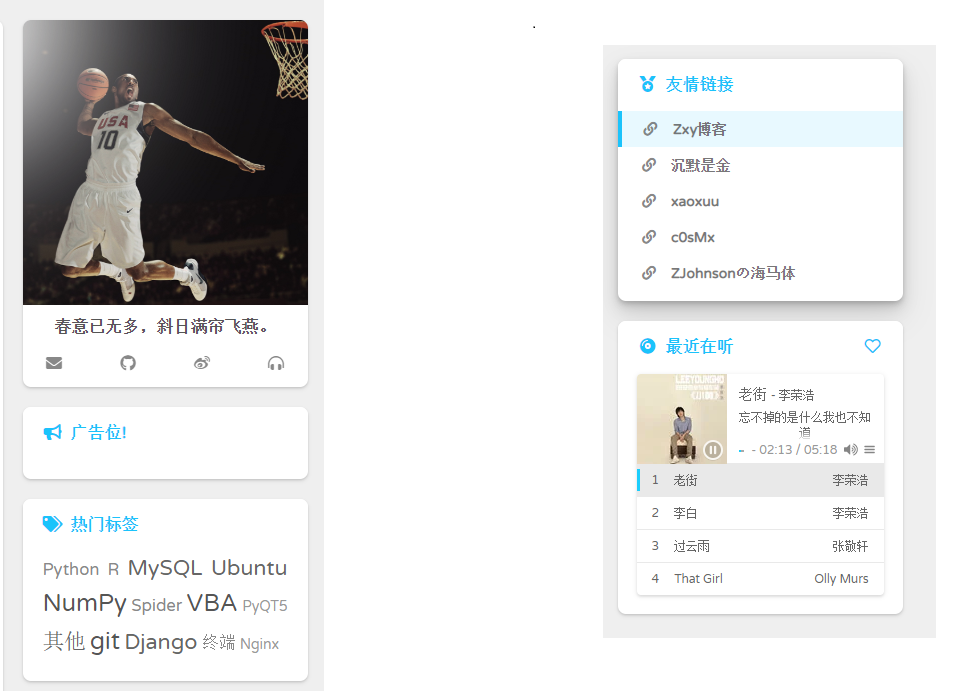
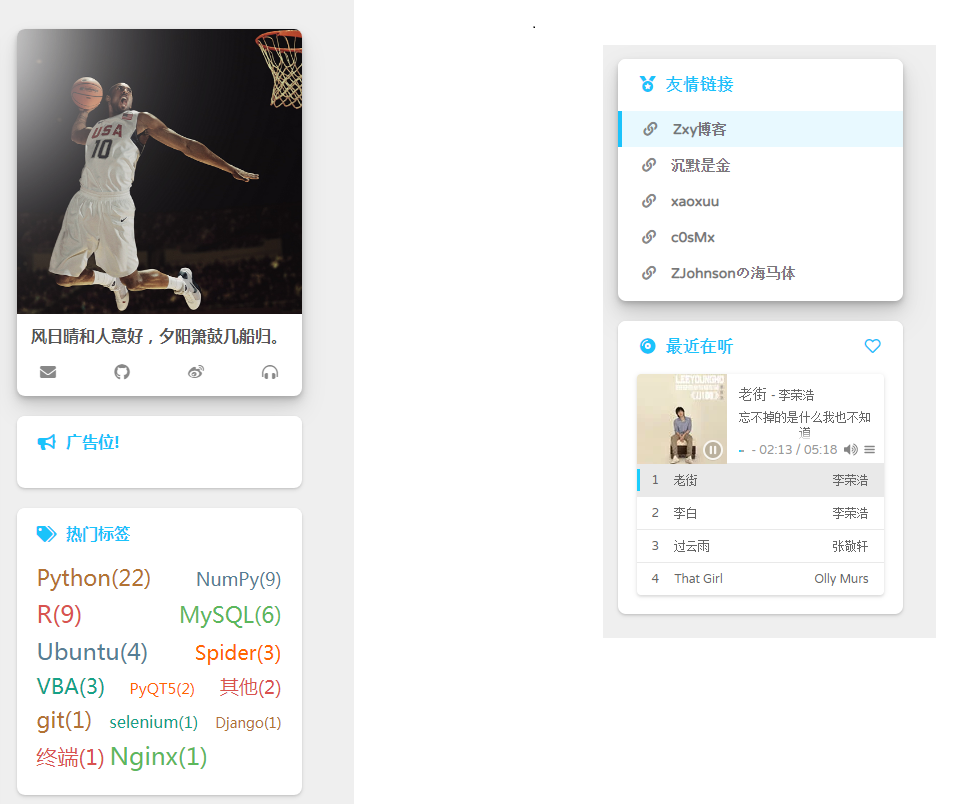
UPDATE

diff --git a/www/common_static/js/search.js b/www/common_static/js/search.js
@@ -1,1 +1,236 @@
-var AlgoliaSearch,AzureSearch,BaiduSearch,SearchService="";!function(e){SearchService=function(t){var o=this;o.config=e.extend({per_page:10,selectors:{body:"body",form:".u-search-form",input:".u-search-input",container:"#u-search",modal:"#u-search .modal",modal_body:"#u-search .modal-body",modal_footer:"#u-search .modal-footer",modal_overlay:"#u-search .modal-overlay",modal_results:"#u-search .modal-results",modal_metadata:"#u-search .modal-metadata",modal_error:"#u-search .modal-error",modal_loading_bar:"#u-search .modal-loading-bar",modal_ajax_content:"#u-search .modal-ajax-content",modal_logo:"#u-search .modal-footer .logo",btn_close:"#u-search .btn-close",btn_next:"#u-search .btn-next",btn_prev:"#u-search .btn-prev"},brands:{google:{logo:"google.svg",url:"https://cse.google.com"},algolia:{logo:"algolia.svg",url:"https://www.algolia.com"},hexo:{logo:"",url:""},azure:{logo:"azure.svg",url:"https://azure.microsoft.com/en-us/services/search/"},baidu:{logo:"baidu.svg",url:"http://zn.baidu.com/cse/home/index"}},imagePath:ROOT+"img/"},t),o.dom={},o.percentLoaded=0,o.open=!1,o.queryText="",o.nav={next:-1,prev:-1,total:0,current:1},o.parseSelectors=function(){for(var a in o.config.selectors)o.dom[a]=e(o.config.selectors[a])},o.beforeQuery=function(){o.open||(o.dom.container.fadeIn(),o.dom.body.addClass("modal-active")),o.dom.input.each(function(a,t){e(t).val(o.queryText)}),document.activeElement.blur(),o.dom.modal_error.hide(),o.dom.modal_ajax_content.removeClass("loaded"),o.startLoading()},o.afterQuery=function(){o.dom.modal_body.scrollTop(0),o.dom.modal_ajax_content.addClass("loaded"),o.stopLoading()},o.search=function(e,a){o.beforeQuery(),o.search instanceof Function?o.query(o.queryText,e,function(){o.afterQuery()}):(console.log("query() does not exist."),o.onQueryError(o.queryText,""),o.afterQuery())},o.onQueryError=function(e,a){var t="";t="success"===a?'No result found for "'+e+'".':"timeout"===a?"Unfortunate timeout.":"Mysterious failure.",o.dom.modal_results.html(""),o.dom.modal_error.html(t),o.dom.modal_error.show()},o.nextPage=function(){-1!==o.nav.next&&o.search(o.nav.next)},o.prevPage=function(){-1!==o.nav.prev&&o.search(o.nav.prev)},o.buildResult=function(e,a,t){var o="";return o="<li>",o+="<a class='result' href='"+e+"'>",o+="<span class='title'>"+a+"</span>",o+="<span class='digest'>"+t+"</span>",o+="<span class='fas fa-chevron-thin-right'></span>",o+="</a>",o+="</li>"},o.close=function(){o.open=!1,o.dom.container.fadeOut(),o.dom.body.removeClass("modal-active")},o.onSubmit=function(a){a.preventDefault(),o.queryText=e(this).find(".u-search-input").val(),o.queryText&&o.search(1)},o.startLoading=function(){o.dom.modal_loading_bar.show(),o.loadingTimer=setInterval(function(){o.percentLoaded=Math.min(o.percentLoaded+5,95),o.dom.modal_loading_bar.css("width",o.percentLoaded+"%")},100)},o.stopLoading=function(){clearInterval(o.loadingTimer),o.dom.modal_loading_bar.css("width","100%"),o.dom.modal_loading_bar.fadeOut(),setTimeout(function(){o.percentLoaded=0,o.dom.modal_loading_bar.css("width","0%")},300)},o.addLogo=function(e){var a="";o.config.brands[e]&&o.config.brands[e].logo&&(a+="<a href='"+o.config.brands[e].url+"' class='"+e+"'>",a+='<img src="'+o.config.imagePath+o.config.brands[e].logo+'" />',a+="</a>",o.dom.modal_logo.html(a))},o.destroy=function(){o.dom.form.each(function(a,t){e(t).off("submit")}),o.dom.modal_overlay.off("click"),o.dom.btn_close.off("click"),o.dom.btn_next.off("click"),o.dom.btn_prev.off("click"),o.dom.container.remove()},o.init=function(){e("body").append(a),o.parseSelectors(),o.dom.modal_footer.show(),o.dom.form.each(function(a,t){e(t).on("submit",o.onSubmit)}),o.dom.modal_overlay.on("click",o.close),o.dom.btn_close.on("click",o.close),o.dom.btn_next.on("click",o.nextPage),o.dom.btn_prev.on("click",o.prevPage)},o.init()};var a='<div id="u-search"><div class="modal"> <header class="modal-header" class="clearfix"><form id="u-search-modal-form" class="u-search-form" name="uSearchModalForm"> <input type="text" id="u-search-modal-input" class="u-search-input" /> <button type="submit" id="u-search-modal-btn-submit" class="u-search-btn-submit"> <span class="fas fa-search"></span> </button></form> <a class="btn-close"> <span class="fas fa-times"></span> </a><div class="modal-loading"><div class="modal-loading-bar"></div></div> </header> <main class="modal-body"><ul class="modal-results modal-ajax-content"></ul> </main> <footer class="modal-footer clearfix"><div class="modal-metadata modal-ajax-content"> <strong class="range"></strong> of <strong class="total"></strong></div><div class="modal-error"></div> <div class="logo"></div> <a class="nav btn-next modal-ajax-content"> <span class="text">NEXT</span> <span class="fas fa-chevron-right"></span> </a> <a class="nav btn-prev modal-ajax-content"> <span class="fas fa-chevron-left"></span> <span class="text">PREV</span> </a> </footer></div><div class="modal-overlay"></div></div>'}(jQuery),function(e){"use strict";AlgoliaSearch=function(a){SearchService.apply(this,arguments);var t=this,o="https://"+t.config.app_id+"-dsn.algolia.net/1/indexes/"+t.config.indexName;return t.addLogo("algolia"),t.buildResultList=function(a){var o="";return e.each(a,function(e,a){var n=a.permalink||a.path||"";!a.permalink&&a.path&&(n=ROOT+n);var r=a.title,i=a._highlightResult.excerptStrip.value||"";o+=t.buildResult(n,r,i)}),o},t.buildMetadata=function(e){t.nav.current=e.page*e.hitsPerPage+1,t.nav.currentCount=e.hits.length,t.nav.total=parseInt(e.nbHits),t.dom.modal_metadata.children(".total").html(t.nav.total),t.dom.modal_metadata.children(".range").html(t.nav.current+"-"+(t.nav.current+t.nav.currentCount-1)),t.nav.total>0?t.dom.modal_metadata.show():t.dom.modal_metadata.hide(),e.page<e.nbPages-1?(t.nav.next=e.page+1+1,t.dom.btn_next.show()):(t.nav.next=-1,t.dom.btn_next.hide()),e.page>0?(t.nav.prev=e.page+1-1,t.dom.btn_prev.show()):(t.nav.prev=-1,t.dom.btn_prev.hide())},t.query=function(a,n,r){e.get(o,{query:a,page:n-1,hitsPerPage:t.config.per_page,"x-algolia-application-id":t.config.app_id,"x-algolia-api-key":t.config.apiKey},function(e,o){if("success"===o&&e.hits&&e.hits.length>0){var n=t.buildResultList(e.hits);t.dom.modal_results.html(n)}else t.onQueryError(a,o);t.buildMetadata(e),r&&r(e)})},t}}(jQuery),function(e){"use strict";AzureSearch=function(a){SearchService.apply(this,arguments);var t=this,o="https://"+t.config.serviceName+".search.windows.net/indexes/"+t.config.indexName+"/docs?api-version=2015-02-28";return t.nav.current=1,t.addLogo("azure"),t.buildResultList=function(a){var o="";return e.each(a,function(e,a){var n=a.permalink||a.path||"";!a.permalink&&a.path&&(n="/"+n);var r=a.title,i=a.excerpt||"";o+=t.buildResult(n,r,i)}),o},t.buildMetadata=function(e,a){t.nav.current=a,t.nav.currentCount=e.value.length,t.nav.total=parseInt(e["@odata.count"]),t.dom.modal_metadata.children(".total").html(t.nav.total),t.dom.modal_metadata.children(".range").html(t.nav.current+"-"+(t.nav.current+t.nav.currentCount-1)),t.nav.total>0?t.dom.modal_metadata.show():t.dom.modal_metadata.hide(),t.nav.current+t.nav.currentCount<=t.nav.total?(t.nav.next=t.nav.current+t.nav.currentCount,t.dom.btn_next.show()):(t.nav.next=-1,t.dom.btn_next.hide()),t.nav.current>1?(t.nav.prev=t.nav.current-t.config.per_page,t.dom.btn_prev.show()):(t.nav.prev=-1,t.dom.btn_prev.hide())},t.query=function(a,n,r){e.ajax({url:o,headers:{Accept:"application/json","api-key":t.config.queryKey},data:{search:a,$orderby:"date desc",$skip:n-1,$top:t.config.per_page,$count:!0},type:"GET",success:function(e,o){if("success"===o&&e.value&&e.value.length>0){var i=t.buildResultList(e.value);t.dom.modal_results.html(i)}else t.onQueryError(a,o);t.buildMetadata(e,n),r&&r(e)}})},t}}(jQuery),function(e){"use strict";BaiduSearch=function(a){SearchService.apply(this,arguments);var t=this;return t.addLogo("baidu"),t.buildResultList=function(a,o){var n="";return e.each(a,function(e,a){t.contentSearch(a,o)&&(n+=t.buildResult(a.linkUrl,a.title,a.abstract))}),n},t.buildMetadata=function(e){},t.loadScript=function(){t.dom.input.each(function(a,t){e(t).attr("disabled",!0)});var a="<script src='http://zhannei.baidu.com/api/customsearch/apiaccept?sid="+t.config.apiId+"&v=2.0&callback=customSearch.initBaidu' type='text/javascript' charset='utf-8'><\/script>";t.dom.body.append(a)},t.initBaidu=function(){t.cse=new BCse.Search(t.config.apiId),t.dom.input.each(function(a,t){e(t).attr("disabled",!1)})},t.query=function(e,a,o){t.cse.getResult(e,function(a){console.log("Searching: "+e),console.log(a),t.cse.getError(function(e){console.log(e)}),a.length>0?(t.buildResultList(a,e),t.cse.getSearchInfo(e,function(e){console.log(e),t.buildMetadata(e)})):(t.nav.total=0,t.nav.next=-1,t.nav.prev=-1,t.dom.modal_metadata.hide(),t.dom.btn_next.hide(),t.dom.btn_prev.hide(),t.onQueryError(e,"success")),o instanceof Function&&o()})},t.loadScript(),t}}(jQuery);var HexoSearch,GoogleCustomSearch="";!function(e){"use strict";GoogleCustomSearch=function(a){SearchService.apply(this,arguments);var t=this;return t.addLogo("google"),t.buildResultList=function(a){var o="";return e.each(a,function(e,a){var n=a.link,r=a.title,i=(a.htmlSnippet||"").replace("<br>","");o+=t.buildResult(n,r,i)}),o},t.buildMetadata=function(e){e.queries&&e.queries.request&&"0"!==e.queries.request[0].totalResults?(t.nav.current=e.queries.request[0].startIndex,t.nav.currentCount=e.queries.request[0].count,t.nav.total=parseInt(e.queries.request[0].totalResults),t.dom.modal_metadata.children(".total").html(t.nav.total),t.dom.modal_metadata.children(".range").html(t.nav.current+"-"+(t.nav.current+t.nav.currentCount-1)),t.dom.modal_metadata.show()):t.dom.modal_metadata.hide(),e.queries&&e.queries.nextPage?(t.nav.next=e.queries.nextPage[0].startIndex,t.dom.btn_next.show()):(t.nav.next=-1,t.dom.btn_next.hide()),e.queries&&e.queries.previousPage?(t.nav.prev=e.queries.previousPage[0].startIndex,t.dom.btn_prev.show()):(t.nav.prev=-1,t.dom.btn_prev.hide())},t.query=function(a,o,n){e.get("https://www.googleapis.com/customsearch/v1",{key:t.config.apiKey,cx:t.config.engineId,q:a,start:o,num:t.config.per_page},function(e,o){if("success"===o&&e.items&&e.items.length>0){var r=t.buildResultList(e.items);t.dom.modal_results.html(r)}else t.onQueryError(a,o);t.buildMetadata(e),n&&n()})},t}}(jQuery),function(e){"use strict";HexoSearch=function(a){SearchService.apply(this,arguments);var t=this;return t.config.endpoint=ROOT+((a||{}).endpoint||"content.json"),t.config.endpoint=t.config.endpoint.replace("//","/"),t.cache="",t.contentSearch=function(a,t){var o=a.title.trim().toLowerCase(),n=a.text.trim().toLowerCase(),r=t.trim().toLowerCase().split(" "),i=!1,s=-1,c=-1,l=-1;return""!==o&&""!==n&&e.each(r,function(e,t){if(s=o.indexOf(t),c=n.indexOf(t),s<0&&c<0?i=!1:(i=!0,c<0&&(c=0),0===e&&(l=c)),i){n=a.text.trim();var d=0,u=0;if(l>=0){u=0===(d=Math.max(l-30,0))?Math.min(200,n.length):Math.min(l+170,n.length);var m=n.substring(d,u);r.forEach(function(e){var a=new RegExp(e,"gi");m=m.replace(a,"<b>"+e+"</b>")}),a.digest=m}else u=Math.min(200,n.length),a.digest=n.trim().substring(0,u)}}),i},t.buildResultList=function(a,o){var n="";return e.each(a,function(e,a){t.contentSearch(a,o)&&(n+=t.buildResult(a.permalink,a.title,a.digest))}),n},t.buildMetadata=function(e){t.dom.modal_footer.hide()},t.query=function(a,o,n){if(t.cache){var r="";r+=t.buildResultList(t.cache.pages,a),r+=t.buildResultList(t.cache.posts,a),t.dom.modal_results.html(r),t.buildMetadata(t.cache),n&&n(t.cache)}else e.get(t.config.endpoint,{key:t.config.apiKey,cx:t.config.engineId,q:a,start:o,num:t.config.per_page},function(e,o){if("success"!==o||!e||!e.posts&&!e.pages||e.posts.length<1&&e.pages.length<1)t.onQueryError(a,o);else{t.cache=e;var r="";r+=t.buildResultList(e.pages,a),r+=t.buildResultList(e.posts,a),t.dom.modal_results.html(r)}t.buildMetadata(e),n&&n(e)})},t}}(jQuery);
+var AlgoliaSearch, AzureSearch, BaiduSearch, SearchService = "";
+!function (e) {
+    SearchService = function (t) {
+        var o = this;
+        o.config = e.extend({
+            per_page: 10,
+            selectors: {
+                body: "body",
+                form: ".u-search-form",
+                input: ".u-search-input",
+                container: "#u-search",
+                modal: "#u-search .modal",
+                modal_body: "#u-search .modal-body",
+                modal_footer: "#u-search .modal-footer",
+                modal_overlay: "#u-search .modal-overlay",
+                modal_results: "#u-search .modal-results",
+                modal_metadata: "#u-search .modal-metadata",
+                modal_error: "#u-search .modal-error",
+                modal_loading_bar: "#u-search .modal-loading-bar",
+                modal_ajax_content: "#u-search .modal-ajax-content",
+                modal_logo: "#u-search .modal-footer .logo",
+                btn_close: "#u-search .btn-close",
+                btn_next: "#u-search .btn-next",
+                btn_prev: "#u-search .btn-prev"
+            },
+            brands: {
+                google: {logo: "google.svg", url: "https://cse.google.com"},
+                algolia: {logo: "algolia.svg", url: "https://www.algolia.com"},
+                hexo: {logo: "", url: ""},
+                azure: {logo: "azure.svg", url: "https://azure.microsoft.com/en-us/services/search/"},
+                baidu: {logo: "baidu.svg", url: "http://zn.baidu.com/cse/home/index"}
+            },
+            imagePath: ROOT + "img/"
+        }, t), o.dom = {}, o.percentLoaded = 0, o.open = !1, o.queryText = "", o.nav = {next: -1, prev: -1, total: 0, current: 1}, o.parseSelectors = function () {
+            for (var a in o.config.selectors) o.dom[a] = e(o.config.selectors[a])
+        }, o.beforeQuery = function () {
+            o.open || (o.dom.container.fadeIn(), o.dom.body.addClass("modal-active")), o.dom.input.each(function (a, t) {
+                e(t).val(o.queryText)
+            }), document.activeElement.blur(), o.dom.modal_error.hide(), o.dom.modal_ajax_content.removeClass("loaded"), o.startLoading()
+        }, o.afterQuery = function () {
+            o.dom.modal_body.scrollTop(0), o.dom.modal_ajax_content.addClass("loaded"), o.stopLoading()
+        }, o.search = function (e, a) {
+            o.beforeQuery(), o.search instanceof Function ? o.query(o.queryText, e, function () {
+                o.afterQuery()
+            }) : (console.log("query() does not exist."), o.onQueryError(o.queryText, ""), o.afterQuery())
+        }, o.onQueryError = function (e, a) {
+            var t = "";
+            t = "success" === a ? 'No result found for "' + e + '".' : "timeout" === a ? "Unfortunate timeout." : "Mysterious failure.", o.dom.modal_results.html(""), o.dom.modal_error.html(t), o.dom.modal_error.show()
+        }, o.nextPage = function () {
+            -1 !== o.nav.next && o.search(o.nav.next)
+        }, o.prevPage = function () {
+            -1 !== o.nav.prev && o.search(o.nav.prev)
+        }, o.buildResult = function (e, a, t) {
+            var o = "";
+            return o = "<li>", o += "<a class='result' href='" + e + "'>", o += "<span class='title'>" + a + "</span>", o += "<span class='digest'>" + t + "</span>", o += "<span class='fas fa-chevron-thin-right'></span>", o += "</a>", o += "</li>"
+        }, o.close = function () {
+            o.open = !1, o.dom.container.fadeOut(), o.dom.body.removeClass("modal-active")
+        }, o.onSubmit = function (a) {
+            a.preventDefault(), o.queryText = e(this).find(".u-search-input").val(), o.queryText && o.search(1)
+        }, o.startLoading = function () {
+            o.dom.modal_loading_bar.show(), o.loadingTimer = setInterval(function () {
+                o.percentLoaded = Math.min(o.percentLoaded + 5, 95), o.dom.modal_loading_bar.css("width", o.percentLoaded + "%")
+            }, 100)
+        }, o.stopLoading = function () {
+            clearInterval(o.loadingTimer), o.dom.modal_loading_bar.css("width", "100%"), o.dom.modal_loading_bar.fadeOut(), setTimeout(function () {
+                o.percentLoaded = 0, o.dom.modal_loading_bar.css("width", "0%")
+            }, 300)
+        }, o.addLogo = function (e) {
+            var a = "";
+            o.config.brands[e] && o.config.brands[e].logo && (a += "<a href='" + o.config.brands[e].url + "' class='" + e + "'>", a += '<img src="' + o.config.imagePath + o.config.brands[e].logo + '" />', a += "</a>", o.dom.modal_logo.html(a))
+        }, o.destroy = function () {
+            o.dom.form.each(function (a, t) {
+                e(t).off("submit")
+            }), o.dom.modal_overlay.off("click"), o.dom.btn_close.off("click"), o.dom.btn_next.off("click"), o.dom.btn_prev.off("click"), o.dom.container.remove()
+        }, o.init = function () {
+            e("body").append(a), o.parseSelectors(), o.dom.modal_footer.show(), o.dom.form.each(function (a, t) {
+                e(t).on("submit", o.onSubmit)
+            }), o.dom.modal_overlay.on("click", o.close), o.dom.btn_close.on("click", o.close), o.dom.btn_next.on("click", o.nextPage), o.dom.btn_prev.on("click", o.prevPage)
+        }, o.init()
+    };
+    var a = '<div id="u-search"><div class="modal"> <header class="modal-header" class="clearfix"><form id="u-search-modal-form" class="u-search-form" name="uSearchModalForm"> <input type="text" id="u-search-modal-input" class="u-search-input" /> <button type="submit" id="u-search-modal-btn-submit" class="u-search-btn-submit"> <span class="fas fa-search"></span> </button></form> <a class="btn-close"> <span class="fas fa-times"></span> </a><div class="modal-loading"><div class="modal-loading-bar"></div></div> </header> <main class="modal-body"><ul class="modal-results modal-ajax-content"></ul> </main> <footer class="modal-footer clearfix"><div class="modal-metadata modal-ajax-content"> <strong class="range"></strong> of <strong class="total"></strong></div><div class="modal-error"></div> <div class="logo"></div> <a class="nav btn-next modal-ajax-content"> <span class="text">NEXT</span> <span class="fas fa-chevron-right"></span> </a> <a class="nav btn-prev modal-ajax-content"> <span class="fas fa-chevron-left"></span> <span class="text">PREV</span> </a> </footer></div><div class="modal-overlay"></div></div>'
+}(jQuery), function (e) {
+    "use strict";
+    AlgoliaSearch = function (a) {
+        SearchService.apply(this, arguments);
+        var t = this, o = "https://" + t.config.app_id + "-dsn.algolia.net/1/indexes/" + t.config.indexName;
+        return t.addLogo("algolia"), t.buildResultList = function (a) {
+            var o = "";
+            return e.each(a, function (e, a) {
+                var n = a.permalink || a.path || "";
+                !a.permalink && a.path && (n = ROOT + n);
+                var r = a.title, i = a._highlightResult.excerptStrip.value || "";
+                o += t.buildResult(n, r, i)
+            }), o
+        }, t.buildMetadata = function (e) {
+            t.nav.current = e.page * e.hitsPerPage + 1, t.nav.currentCount = e.hits.length, t.nav.total = parseInt(e.nbHits), t.dom.modal_metadata.children(".total").html(t.nav.total), t.dom.modal_metadata.children(".range").html(t.nav.current + "-" + (t.nav.current + t.nav.currentCount - 1)), t.nav.total > 0 ? t.dom.modal_metadata.show() : t.dom.modal_metadata.hide(), e.page < e.nbPages - 1 ? (t.nav.next = e.page + 1 + 1, t.dom.btn_next.show()) : (t.nav.next = -1, t.dom.btn_next.hide()), e.page > 0 ? (t.nav.prev = e.page + 1 - 1, t.dom.btn_prev.show()) : (t.nav.prev = -1, t.dom.btn_prev.hide())
+        }, t.query = function (a, n, r) {
+            e.get(o, {query: a, page: n - 1, hitsPerPage: t.config.per_page, "x-algolia-application-id": t.config.app_id, "x-algolia-api-key": t.config.apiKey}, function (e, o) {
+                if ("success" === o && e.hits && e.hits.length > 0) {
+                    var n = t.buildResultList(e.hits);
+                    t.dom.modal_results.html(n)
+                } else t.onQueryError(a, o);
+                t.buildMetadata(e), r && r(e)
+            })
+        }, t
+    }
+}(jQuery), function (e) {
+    "use strict";
+    AzureSearch = function (a) {
+        SearchService.apply(this, arguments);
+        var t = this, o = "https://" + t.config.serviceName + ".search.windows.net/indexes/" + t.config.indexName + "/docs?api-version=2015-02-28";
+        return t.nav.current = 1, t.addLogo("azure"), t.buildResultList = function (a) {
+            var o = "";
+            return e.each(a, function (e, a) {
+                var n = a.permalink || a.path || "";
+                !a.permalink && a.path && (n = "/" + n);
+                var r = a.title, i = a.excerpt || "";
+                o += t.buildResult(n, r, i)
+            }), o
+        }, t.buildMetadata = function (e, a) {
+            t.nav.current = a, t.nav.currentCount = e.value.length, t.nav.total = parseInt(e["@odata.count"]), t.dom.modal_metadata.children(".total").html(t.nav.total), t.dom.modal_metadata.children(".range").html(t.nav.current + "-" + (t.nav.current + t.nav.currentCount - 1)), t.nav.total > 0 ? t.dom.modal_metadata.show() : t.dom.modal_metadata.hide(), t.nav.current + t.nav.currentCount <= t.nav.total ? (t.nav.next = t.nav.current + t.nav.currentCount, t.dom.btn_next.show()) : (t.nav.next = -1, t.dom.btn_next.hide()), t.nav.current > 1 ? (t.nav.prev = t.nav.current - t.config.per_page, t.dom.btn_prev.show()) : (t.nav.prev = -1, t.dom.btn_prev.hide())
+        }, t.query = function (a, n, r) {
+            e.ajax({
+                url: o,
+                headers: {Accept: "application/json", "api-key": t.config.queryKey},
+                data: {search: a, $orderby: "date desc", $skip: n - 1, $top: t.config.per_page, $count: !0},
+                type: "GET",
+                success: function (e, o) {
+                    if ("success" === o && e.value && e.value.length > 0) {
+                        var i = t.buildResultList(e.value);
+                        t.dom.modal_results.html(i)
+                    } else t.onQueryError(a, o);
+                    t.buildMetadata(e, n), r && r(e)
+                }
+            })
+        }, t
+    }
+}(jQuery), function (e) {
+    "use strict";
+    BaiduSearch = function (a) {
+        SearchService.apply(this, arguments);
+        var t = this;
+        return t.addLogo("baidu"), t.buildResultList = function (a, o) {
+            var n = "";
+            return e.each(a, function (e, a) {
+                t.contentSearch(a, o) && (n += t.buildResult(a.linkUrl, a.title, a.abstract))
+            }), n
+        }, t.buildMetadata = function (e) {
+        }, t.loadScript = function () {
+            t.dom.input.each(function (a, t) {
+                e(t).attr("disabled", !0)
+            });
+            var a = "<script src='http://zhannei.baidu.com/api/customsearch/apiaccept?sid=" + t.config.apiId + "&v=2.0&callback=customSearch.initBaidu' type='text/javascript' charset='utf-8'><\/script>";
+            t.dom.body.append(a)
+        }, t.initBaidu = function () {
+            t.cse = new BCse.Search(t.config.apiId), t.dom.input.each(function (a, t) {
+                e(t).attr("disabled", !1)
+            })
+        }, t.query = function (e, a, o) {
+            t.cse.getResult(e, function (a) {
+                console.log("Searching: " + e), console.log(a), t.cse.getError(function (e) {
+                    console.log(e)
+                }), a.length > 0 ? (t.buildResultList(a, e), t.cse.getSearchInfo(e, function (e) {
+                    console.log(e), t.buildMetadata(e)
+                })) : (t.nav.total = 0, t.nav.next = -1, t.nav.prev = -1, t.dom.modal_metadata.hide(), t.dom.btn_next.hide(), t.dom.btn_prev.hide(), t.onQueryError(e, "success")), o instanceof Function && o()
+            })
+        }, t.loadScript(), t
+    }
+}(jQuery);
+var HexoSearch, GoogleCustomSearch = "";
+!function (e) {
+    "use strict";
+    GoogleCustomSearch = function (a) {
+        SearchService.apply(this, arguments);
+        var t = this;
+        return t.addLogo("google"), t.buildResultList = function (a) {
+            var o = "";
+            return e.each(a, function (e, a) {
+                var n = a.link, r = a.title, i = (a.htmlSnippet || "").replace("<br>", "");
+                o += t.buildResult(n, r, i)
+            }), o
+        }, t.buildMetadata = function (e) {
+            e.queries && e.queries.request && "0" !== e.queries.request[0].totalResults ? (t.nav.current = e.queries.request[0].startIndex, t.nav.currentCount = e.queries.request[0].count, t.nav.total = parseInt(e.queries.request[0].totalResults), t.dom.modal_metadata.children(".total").html(t.nav.total), t.dom.modal_metadata.children(".range").html(t.nav.current + "-" + (t.nav.current + t.nav.currentCount - 1)), t.dom.modal_metadata.show()) : t.dom.modal_metadata.hide(), e.queries && e.queries.nextPage ? (t.nav.next = e.queries.nextPage[0].startIndex, t.dom.btn_next.show()) : (t.nav.next = -1, t.dom.btn_next.hide()), e.queries && e.queries.previousPage ? (t.nav.prev = e.queries.previousPage[0].startIndex, t.dom.btn_prev.show()) : (t.nav.prev = -1, t.dom.btn_prev.hide())
+        }, t.query = function (a, o, n) {
+            e.get("https://www.googleapis.com/customsearch/v1", {key: t.config.apiKey, cx: t.config.engineId, q: a, start: o, num: t.config.per_page}, function (e, o) {
+                if ("success" === o && e.items && e.items.length > 0) {
+                    var r = t.buildResultList(e.items);
+                    t.dom.modal_results.html(r)
+                } else t.onQueryError(a, o);
+                t.buildMetadata(e), n && n()
+            })
+        }, t
+    }
+}(jQuery), function (e) {
+    "use strict";
+    HexoSearch = function (a) {
+        SearchService.apply(this, arguments);
+        var t = this;
+        return t.config.endpoint = ROOT + ((a || {}).endpoint || "content.json"), t.config.endpoint = t.config.endpoint.replace("//", "/"), t.cache = "", t.contentSearch = function (a, t) {
+            var o = a.title.trim().toLowerCase(), n = a.text.trim().toLowerCase(), r = t.trim().toLowerCase().split(" "), i = !1, s = -1, c = -1, l = -1;
+            return "" !== o && "" !== n && e.each(r, function (e, t) {
+                if (s = o.indexOf(t), c = n.indexOf(t), s < 0 && c < 0 ? i = !1 : (i = !0, c < 0 && (c = 0), 0 === e && (l = c)), i) {
+                    n = a.text.trim();
+                    var d = 0, u = 0;
+                    if (l >= 0) {
+                        u = 0 === (d = Math.max(l - 30, 0)) ? Math.min(200, n.length) : Math.min(l + 170, n.length);
+                        var m = n.substring(d, u);
+                        r.forEach(function (e) {
+                            var a = new RegExp(e, "gi");
+                            m = m.replace(a, "<b>" + e + "</b>")
+                        }), a.digest = m
+                    } else u = Math.min(200, n.length), a.digest = n.trim().substring(0, u)
+                }
+            }), i
+        }, t.buildResultList = function (a, o) {
+            var n = "";
+            return e.each(a, function (e, a) {
+                t.contentSearch(a, o) && (n += t.buildResult(a.permalink, a.title, a.digest))
+            }), n
+        }, t.buildMetadata = function (e) {
+            t.dom.modal_footer.hide()
+        }, t.query = function (a, o, n) {
+            if (t.cache) {
+                var r = "";
+                r += t.buildResultList(t.cache.pages, a), r += t.buildResultList(t.cache.posts, a), t.dom.modal_results.html(r), t.buildMetadata(t.cache), n && n(t.cache)
+            } else e.get(t.config.endpoint, {key: t.config.apiKey, cx: t.config.engineId, q: a, start: o, num: t.config.per_page}, function (e, o) {
+                if ("success" !== o || !e || !e.posts && !e.pages || e.posts.length < 1 && e.pages.length < 1) t.onQueryError(a, o); else {
+                    t.cache = e;
+                    var r = "";
+                    r += t.buildResultList(e.pages, a), r += t.buildResultList(e.posts, a), t.dom.modal_results.html(r)
+                }
+                t.buildMetadata(e), n && n(e)
+            })
+        }, t
+    }
+}(jQuery);

diff --git a/www/templates/blog/header.html b/www/templates/blog/header.html
@@ -11,7 +11,6 @@
                     <li><a id="home" class="nav flat-box waves-effect waves-block" href="{% url 'home' %}"><i class="fas fa-home fa-fw"></i>&nbsp;主页</a></li>
                     <li><a id="blog" class="nav flat-box waves-effect waves-block" href="{% url 'blog:Index' %}"><i class="fas fa-rss fa-fw"></i>&nbsp;博客</a></li>
                     <li><a id="blogtutorial" class="nav flat-box waves-effect waves-block" href="{% url 'blog:Tutorial' %}"><i class="fas fa-book fa-fw"></i>教程</a></li>
-                    <li><a id="blogtags" class="nav flat-box waves-effect waves-block" href="{% url 'blog:Tags' %}"><i class="fas fa-tags fa-fw"></i>&nbsp;标签</a></li>
                     <li><a id="blogarchives" class="nav flat-box waves-effect waves-block" href="{% url 'blog:Archives' %}"><i class="fas fa-archive fa-fw"></i>&nbsp;归档</a></li>
                     <li><a id="blogproject" class="nav flat-box waves-effect waves-block" href="{% url 'blog:Project' %}"><i class="fas fa-flask fa-fw"></i>&nbsp;项目</a></li>
                     <li><a id="blogabout" class="nav flat-box waves-effect waves-block" href="{% url 'blog:About' %}"><i class="fas fa-user fa-fw"></i>&nbsp;关于</a></li>
@@ -45,7 +44,6 @@
                 <li><a id="home" class="nav flat-box waves-effect waves-block" href="{% url 'home' %}"><i class="fas fa-home fa-fw"></i>&nbsp;主页</a></li>
                 <li><a id="blog" class="nav flat-box waves-effect waves-block" href="{% url 'blog:Index' %}"><i class="fas fa-rss fa-fw"></i>&nbsp;博客</a></li>
                 <li><a id="blogtutorial" class="nav flat-box waves-effect waves-block" href="{% url 'blog:Tutorial' %}"><i class="fas fa-book fa-fw"></i>教程</a></li>
-                <li><a id="blogtags" class="nav flat-box waves-effect waves-block" href="{% url 'blog:Tags' %}"><i class="fas fa-tags fa-fw"></i>&nbsp;标签</a></li>
                 <li><a id="blogarchives" class="nav flat-box waves-effect waves-block" href="{% url 'blog:Archives' %}"><i class="fas fa-archive fa-fw"></i>&nbsp;归档</a></li>
                 <li><a id="blogproject" class="nav flat-box waves-effect waves-block" href="{% url 'blog:Project' %}"><i class="fas fa-flask fa-fw"></i>&nbsp;项目</a></li>
                 <li><a id="blogabout" class="nav flat-box waves-effect waves-block" href="{% url 'blog:About' %}"><i class="fas fa-user fa-fw"></i>&nbsp;关于</a></li>

diff --git a/www/common_static/js/aside.js b/www/common_static/js/aside.js
@@ -1,4 +1,31 @@
+// 生成从minNum到maxNum的随机数
+function randomNum(minNum,maxNum){
+    switch(arguments.length){
+        case 1:
+            return parseInt(Math.random()*minNum+1,10);
+        break;
+        case 2:
+            return parseInt(Math.random()*(maxNum-minNum+1)+minNum,10);
+        break;
+            default:
+                return 0;
+            break;
+    }
+}
+
+// 随机取颜色
+function randomColor(){
+    const colors = ['#567e95', '#b37333', '#15a287', '#5cb85c', '#d9534f', '#b433ff', '#f60'];
+    return colors[Math.floor(Math.random()*colors.length)];
+}
+
 $(document).ready(function() {
+    // 随机改变热门标签样式
+    $('.tagcloud div a').each(function (index, element) {
+        $(this).attr("style", 'font-size:' + randomNum(14,25) + 'px;color:' + randomColor());
+        }
+    );
+
     // 生成目录
     $("#article_content").children().each(function(index, element) {
         var tagName=$(this).get(0).tagName;

diff --git a/www/templates/blog/aside.html b/www/templates/blog/aside.html
@@ -31,7 +31,6 @@
             <ol class="toc"></ol>
         </div>
     </section>
-    <script src="{% static 'js/toc.js' %}"></script>
 
     <!-- 侧边栏广告栏插件 -->
     <section class="plain">
@@ -54,7 +53,7 @@
         <div class="content pure">
             {% get_tags as tags_list %}
             {% for tag in tags_list.tags %}
-            <a href="{% url 'blog:tags' tag.name %}" style="{{ tags_list.tags_style | random }}">{{ tag.name }}</a>
+            <a href="{% url 'blog:tags' tag.name %}" style="" title="{{ tag.num_posts }}个话题">{{ tag.name }}({{ tag.num_posts }})</a>
             {% empty %}
                 <a></a>
             {% endfor %}
@@ -93,4 +92,4 @@
     </section>
     {% endif %}
 </aside>
-
+<script src="{% static 'js/aside.js' %}"></script>

diff --git a/www/blog/templatetags/blog_tags.py b/www/blog/templatetags/blog_tags.py
@@ -10,15 +10,8 @@ register = template.Library()
 @register.simple_tag
 def get_tags():
     # 使用 Count 方法统计文章数，并保存到 num_posts 属性中
-    tags_style = [
-        "font-size:19px;color:#777",
-        "font-size:14px;color:#999",
-        "font-size:16.5px;color:#888",
-        "font-size:24px;color:#555",
-        "font-size:21.5px;color:#666"
-    ]
-    tags = Tag.objects.filter(post__is_show=True).annotate(num_posts=Count('post')).filter(num_posts__gt=0).order_by('-num_posts')[:20]
-    return {'tags_style':tags_style, 'tags':tags}
+    tags = Tag.objects.filter(post__is_show=True, post__post_type='post').annotate(num_posts=Count('post')).filter(num_posts__gt=0).order_by('-num_posts')
+    return {'tags':tags}
 
 
 # 获取友情链接

diff --git a/www/blog/views.py b/www/blog/views.py
@@ -125,13 +125,6 @@ def Archives(request):
     return render(request, 'blog/archives.html', context={'years': years, 'post_list':post_list})
 
 
-# 标签页面
-def Tags(request):
-    # 使用 Count 方法统计文章数，并保存到 num_posts 属性中
-    tags = Tag.objects.filter(post__is_show=True, post__post_type='post').annotate(num_posts=Count('post')).filter(num_posts__gt=0).order_by('-num_posts')
-    return render(request, 'blog/tags.html', context={'tags': tags})
-
-
 # 关于页面
 def About(request):
     post = Post.objects.filter(is_show=True, post_type='about').first()

diff --git a/www/blog/urls.py b/www/blog/urls.py
@@ -7,7 +7,6 @@ app_name = 'blog'
 
 urlpatterns = [
     path('', BlogViews.Index().index, name='Index'),
-    path('tags/', BlogViews.Tags, name='Tags'),
     path('archives/', BlogViews.Archives, name='Archives'),
     path('tutorial/', BlogViews.Tutorial, name='Tutorial'),
     path('about/', BlogViews.About, name='About'),

diff --git a/www/blog/models.py b/www/blog/models.py
@@ -112,6 +112,7 @@ class SidebarMusic(models.Model):
     server = models.CharField(
         max_length=20,
         choices=(('netease', u'网易云音乐'), ('tencent', u'QQ音乐'), ('xiami', u'虾米'), ('kugou', u'酷狗')),
+        unique=True,
         default='netease',
         verbose_name=u'平台'
     )

diff --git a/README.md b/README.md
@@ -4,7 +4,7 @@
 
 ## 说明
 
-本站是基于的Hexo博客主题 [Material X](https://xaoxuu.com/projects/#Material-X) ，使用 Python3.6.3+Django3.0.7编写，后台集成Markdown编辑器 [mdeditor](https://pandao.github.io/editor.md/)，前端代码高亮使用的是highlight.js插件。
+本站是基于的Hexo博客主题 [Material X](https://xaoxuu.com/projects/#Material-X) ，使用 Python3.6.3+Django3.0.7编写，后台集成富文本编辑器 [django-ckeditor](https://github.com/django-ckeditor/django-ckeditor)，前端代码高亮使用的是highlight.js插件。
 有疑问，或者建议可到[我的博客](http://bgods.cn/)下留言。
 
 ## 1、页面
@@ -40,7 +40,7 @@
 
 - 评论
 
-评论区支持 Markdown 语法，评论支持邮箱通知
+评论区支持富文本编辑器 [django-ckeditor](https://github.com/django-ckeditor/django-ckeditor)，评论支持邮箱通知
 
 ![](doc/20200628201112_20200628201129280228.png)
 
@@ -50,7 +50,7 @@
 
 - 编辑器
 
-后台集成富文本编辑器 [ckeditor](https://github.com/django-ckeditor/django-ckeditor)
+后台集成富文本编辑器 [django-ckeditor](https://github.com/django-ckeditor/django-ckeditor)
 
 ![](doc/admin-post-add_20190426204956161746_20200628202421166552.png)
 
